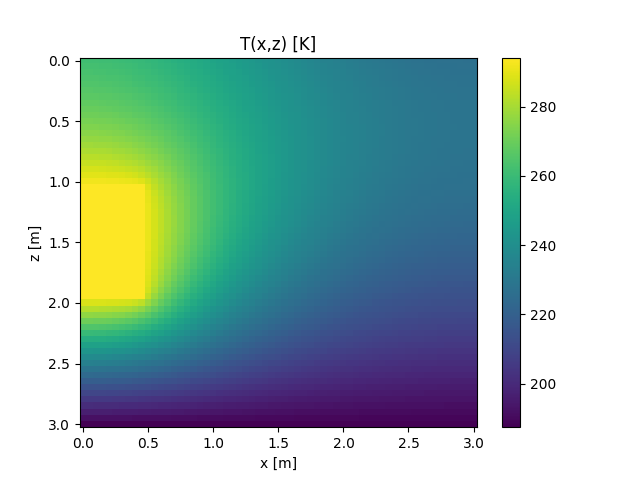
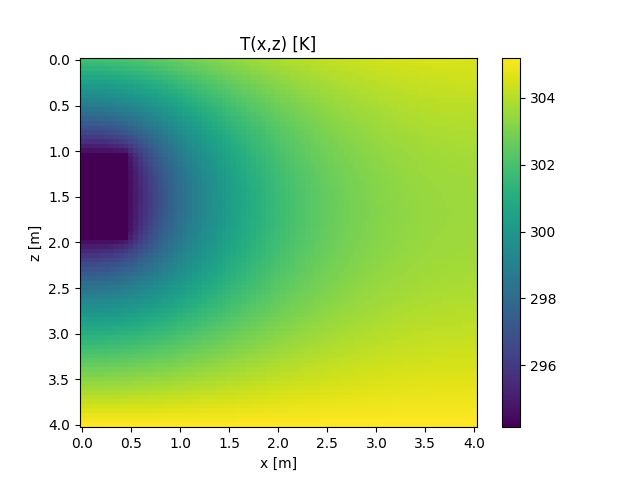
test2

diff --git a/methode_matrice_2D_temporelle.py b/methode_matrice_2D_temporelle.py
@@ -103,40 +103,56 @@ def methode_matrice_2D_temporelle (planete, p, l_x, l_z, Lx, Lz, d ):
         Energy = []
         if t>tau:
             #ENERGIE CODE*****************************************************************************
-            dT_tot = 0
+            P_tot = 0
+            P_updown = 0 #Puissance en W/m
+            P_side = 0 #Puissance en W/m
             for i in range(Nz):
                 for j in range(Nx):
-                    if (p/d-1) > i > (p/d+1) and j <= (l_x/(2*d)+1):
-                        dT_up = (Unr[i,j] - Unr[i-1,j])/(d)
-                        dT_tot += abs(dT_up)
-                    if ((l_z+p)/d-1)< i < ((l_z+p)/d+1) and j <= (l_x/(2*d)+1):
-                        dT_down = (Unr[i+1,j] - Unr[i,j])/(d)
-                        dT_tot += abs(dT_down)
-                    if i >= (p/d+1)  and  i <= ((l_z+p)/d+1) and (l_x/(2*d)-1) < j < (l_x/(2*d)+1):
-                        dT_side = (Unr[i,j+1] + Unr[i,j])/(d)
-                        dT_tot += abs(dT_side)
-        
-            Energy.append((2*l_x+l_z)*dT_tot)
+                    if i == int(p/d) and j <= (l_x/(2*d)):
+                        dT_up = (3*Unr[i,j] - 4*Unr[i-1,j] + Unr[i-2,j])/(2*d) #Formule diff finie arriere second degre 
+                        P_updown += abs(K*l_x*dT_up)
+                    if i == int((l_z+p)/d) and j <= (l_x/(2*d)):
+                        dT_down = (-3*Unr[i,j] + 4*Unr[i+1,j] - Unr[i+2,j])/(2*d) #Formule diff finie avant second degre
+                        P_updown += abs(K*l_x*dT_down)
+                    if (p/d) < i < ((l_z+p)/d) and  j == int(l_x/(2*d)):
+                        dT_side = (-3*Unr[i,j] + 4*Unr[i,j+1] - Unr[i,j+2])/(2*d) #Formule diff finie avant second degre
+                        P_side += abs(K*l_z*dT_side)
+            
+            P_tot = P_side+P_updown
+            Energy.append((P_tot)*(temps_deval-tau))
             #ENERGIE FIN***********************************************************************************
         
 
 
         n=n+1
 
-    imageio.v2.mimsave(f'temperature {planete} .gif', images)
-    return np.sum(np.array(Energy))
-
+    imageio.v2.mimsave('temperatureEarth.gif', images)
+    print("Energie totale (J/m) pour une periode de temps", (temps_deval -tau), "sec = ", (np.sum(np.array(Energy))/1000), "KJ/m")
     print(f""" 
 CALCUL TERMINÉ : ANIMATION SAUVEGARDÉE
 #######################################################################################################""")
+    return np.sum(np.array(Energy))
+
+
+with open('constants.yaml') as f:
+    planets_constants = yaml.safe_load(f)
 
 p = 1   # Profondeur de l'abris [m]
 l_x = 1 # Largeur de l'abris en x [m]
 l_z = 1 # Hauteur de l'abris en z [m]
-Lx = 3 # Largeur du domaine [m]
-Lz = 3 # Hauteur du domaine [m]
+Lx = 4 # Largeur du domaine [m]
+Lz = 4 # Hauteur du domaine [m]
 d = 0.05  # Pas de discrétisation [m]
-planete = 'venus'
 
+planete = "earth"
+methode_matrice_2D_temporelle(planete,  p, l_x, l_z, Lx, Lz, d)
 
-methode_matrice_2D_temporelle(planete, p, l_x, l_z, Lx, Lz, d)
+# profondeur = [0.25,0.5,0.75,1,1.25,1.5,1.75,2,2.5]
+# Energy_requise = []
+# for p in profondeur:
+#     Energy_requise.append(methode_matrice_2D_temporelle(planets_constants['earth'],  p, l_x, l_z, Lx, Lz, d))
+    
+# plt.plot(profondeur, Energy_requise)
+# plt.xlabel("Profondeur de l'abri (m)")
+# plt.ylabel("Energy (KJ/m)")
+# plt.show()
